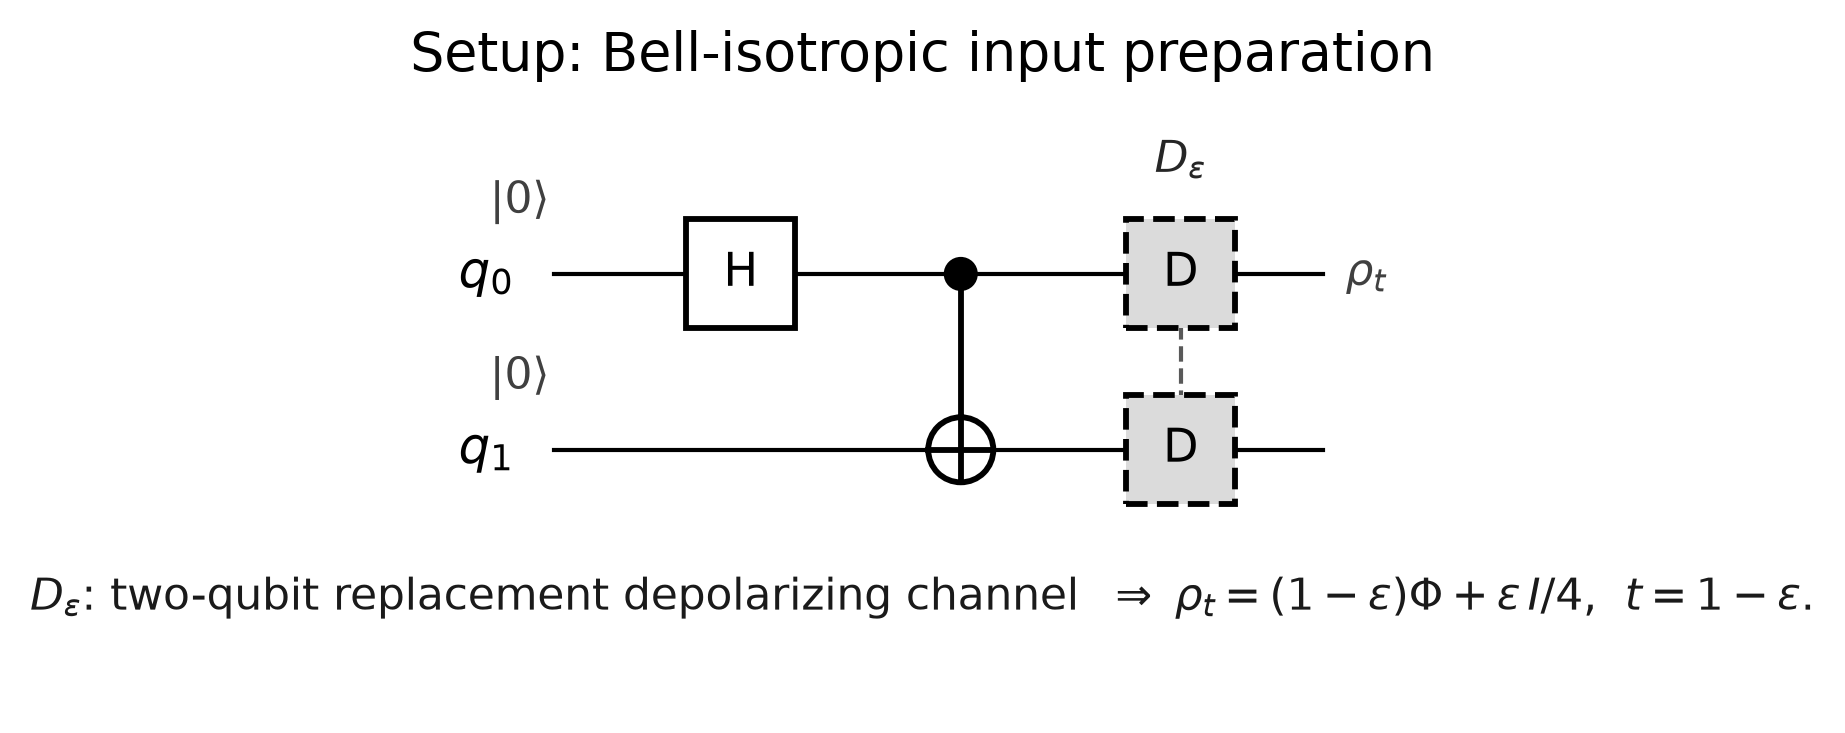
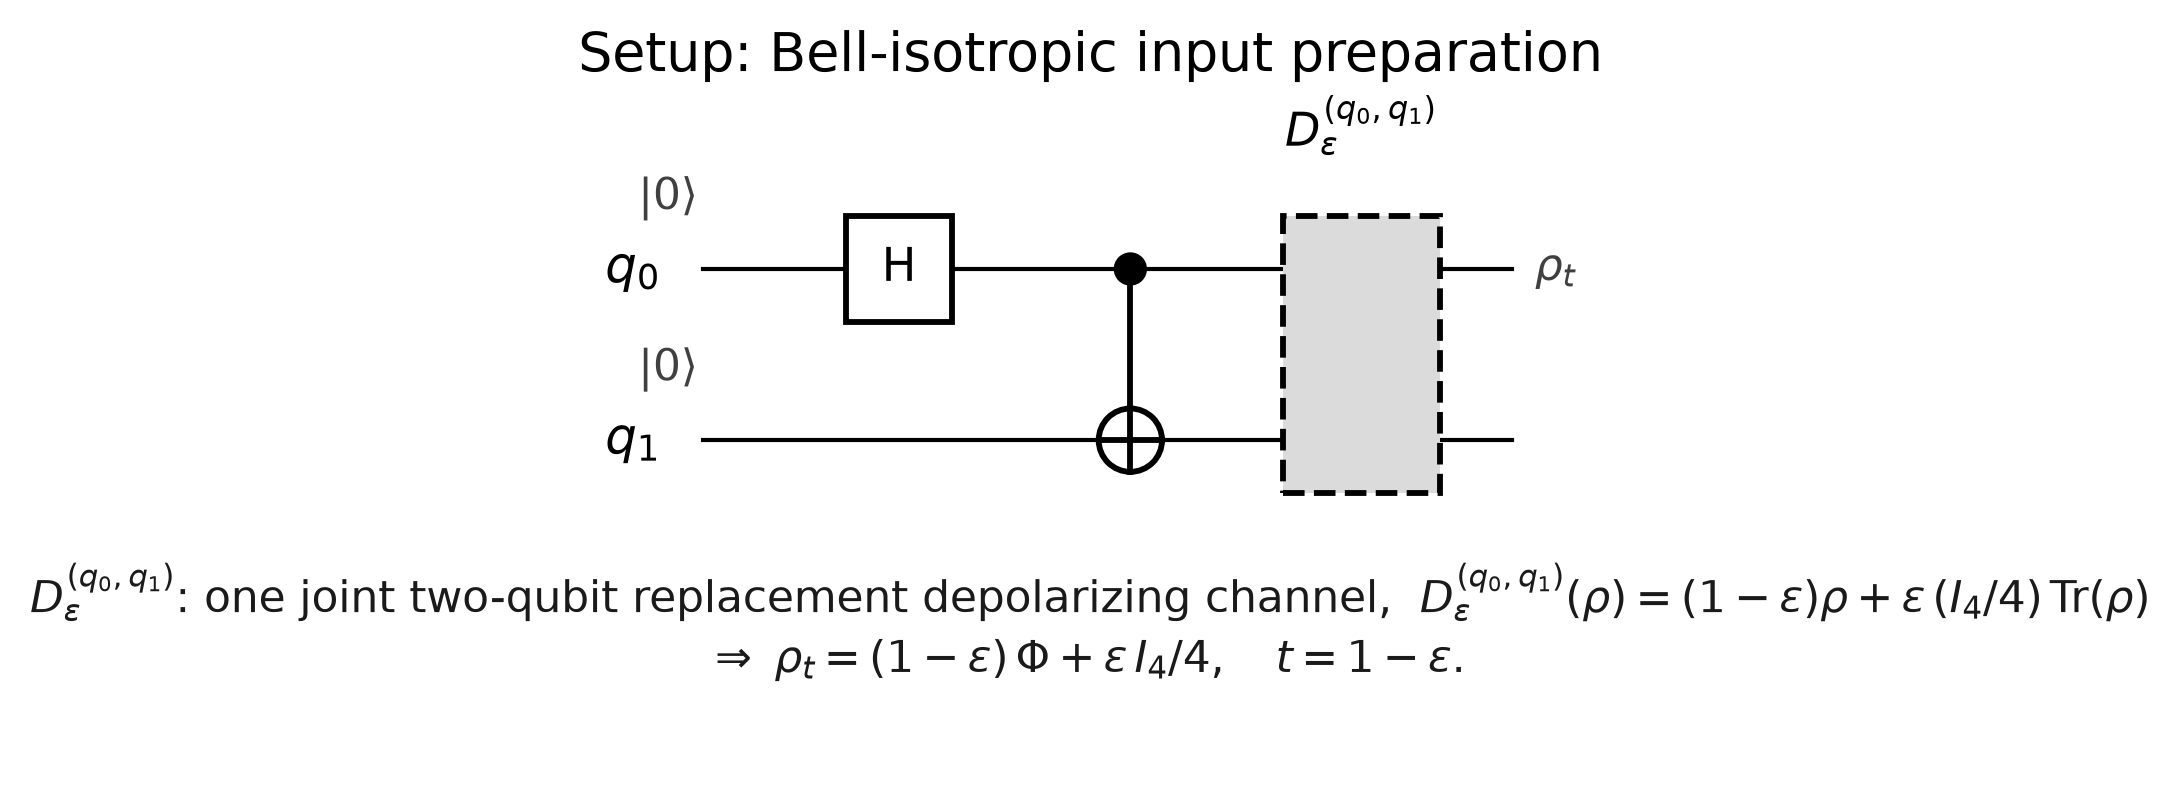
Setup figure: draw D_epsilon as one joint two-qubit channel
The previous setup figure drew the input depolarizing channel as two per-wire D boxes,
which can read as a tensor product of two single-qubit channels. Replace it with a
single dashed light-gray block spanning both q0 and q1 together, labeled
D_epsilon^(q0,q1), with the caption stating it is one joint two-qubit replacement
depolarizing channel D_eps(rho)=(1-eps)rho+eps (I_4/4) Tr(rho) => rho_t. Circuit
(|0>,|0>,H,CNOT->rho_t) unchanged; only figures/setup_bell_input.png regenerated. No
other figure, code, formula, threshold value, or branch structure is touched.

diff --git a/scripts/generate_paper_figures.py b/scripts/generate_paper_figures.py
@@ -62,6 +62,9 @@ def _span(item, nw):
     if tp == "noise":
         ws = item["wires"]
         return list(range(min(ws), max(ws) + 1))
+    if tp == "noisebox":
+        ws = item["wires"]
+        return list(range(min(ws), max(ws) + 1))
     if tp == "full":
         return list(range(nw))
     raise ValueError(tp)
@@ -149,6 +152,17 @@ def draw_circuit(items, wire_labels, outname, title=None, notes=None,
                 d = 0.16
                 ax.plot([x - d, x + d], [yy - d, yy + d], color="k", lw=LW, zorder=5)
                 ax.plot([x - d, x + d], [yy + d, yy - d], color="k", lw=LW, zorder=5)
+        elif tp == "noisebox":
+            # ONE joint multi-qubit channel: a single dashed light-gray rectangle
+            # covering all its wires together (not per-wire boxes).
+            ws = sorted(it["wires"])
+            yhi, ylo = _y(ws[0], nw), _y(ws[-1], nw)
+            bw = it.get("box_w", BOX_W)
+            ax.add_patch(Rectangle((x - bw / 2, ylo - BOX_H / 2), bw,
+                         (yhi - ylo) + BOX_H, facecolor=NOISE_FILL, edgecolor="k",
+                         lw=LW, linestyle="--", zorder=3))
+            ax.text(x, yhi + BOX_H / 2 + 0.34, it["label"], ha="center", va="bottom",
+                    fontsize=FS_GATE, zorder=4)
         elif tp == "noise":
             ws = sorted(it["wires"])
             ys = [_y(w, nw) for w in ws]
@@ -227,17 +241,21 @@ def fig_setup():
     items = [
         {"type": "box", "wire": 0, "label": "H"},
         {"type": "cnot", "ctrl": 0, "targ": 1},
-        {"type": "noise", "wires": [0, 1], "label": r"$D_\varepsilon$"},
+        # ONE joint two-qubit channel acting on q0 and q1 together (not two 1-qubit boxes)
+        {"type": "noisebox", "wires": [0, 1], "box_w": 0.92,
+         "label": r"$D_\varepsilon^{(q_0,q_1)}$"},
     ]
     draw_circuit(
         items, [r"$q_0$", r"$q_1$"], "setup_bell_input.png",
         title="Setup: Bell-isotropic input preparation",
         left_labels=[r"$|0\rangle$", r"$|0\rangle$"],
         right_labels=[r"$\rho_t$", ""],
-        notes=[r"$D_\varepsilon$: two-qubit replacement depolarizing channel"
-               r"  $\Rightarrow\ \rho_t=(1-\varepsilon)\Phi+\varepsilon\,I/4$,"
-               r"  $t=1-\varepsilon$."],
-        col_scale=1.25,
+        notes=[r"$D_\varepsilon^{(q_0,q_1)}$: one joint two-qubit replacement depolarizing"
+               r" channel,  $D_\varepsilon^{(q_0,q_1)}(\rho)=(1-\varepsilon)\rho"
+               r"+\varepsilon\,(I_4/4)\,\mathrm{Tr}(\rho)$",
+               r"$\Rightarrow\ \rho_t=(1-\varepsilon)\,\Phi+\varepsilon\,I_4/4,"
+               r"\quad t=1-\varepsilon.$"],
+        col_scale=1.35,
     )
 
 
